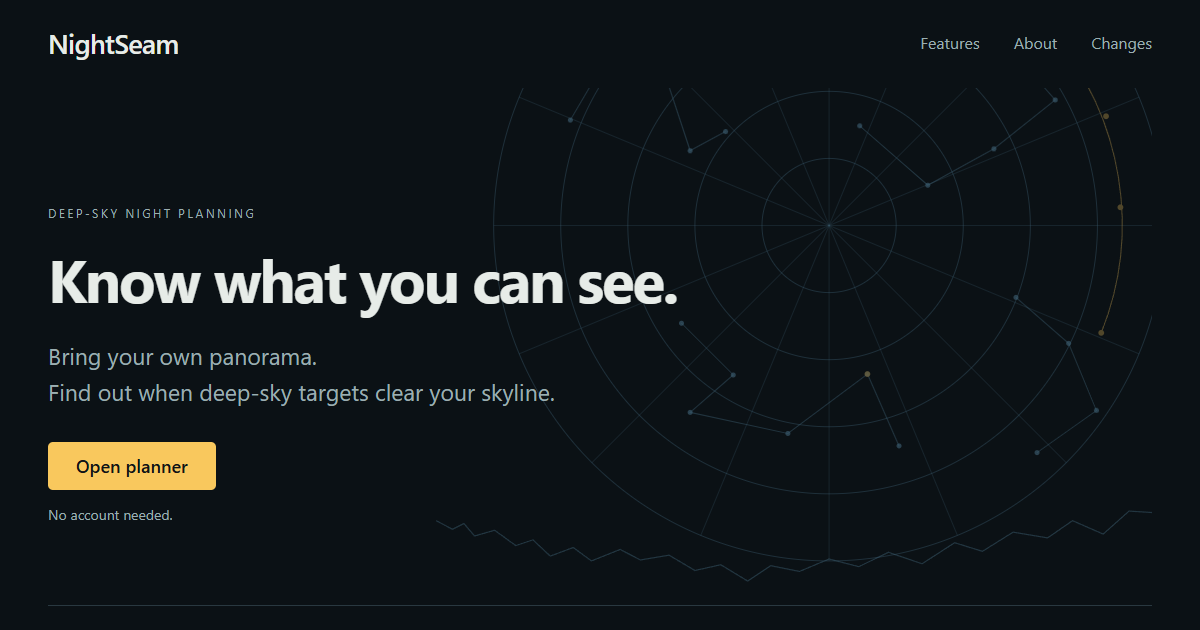
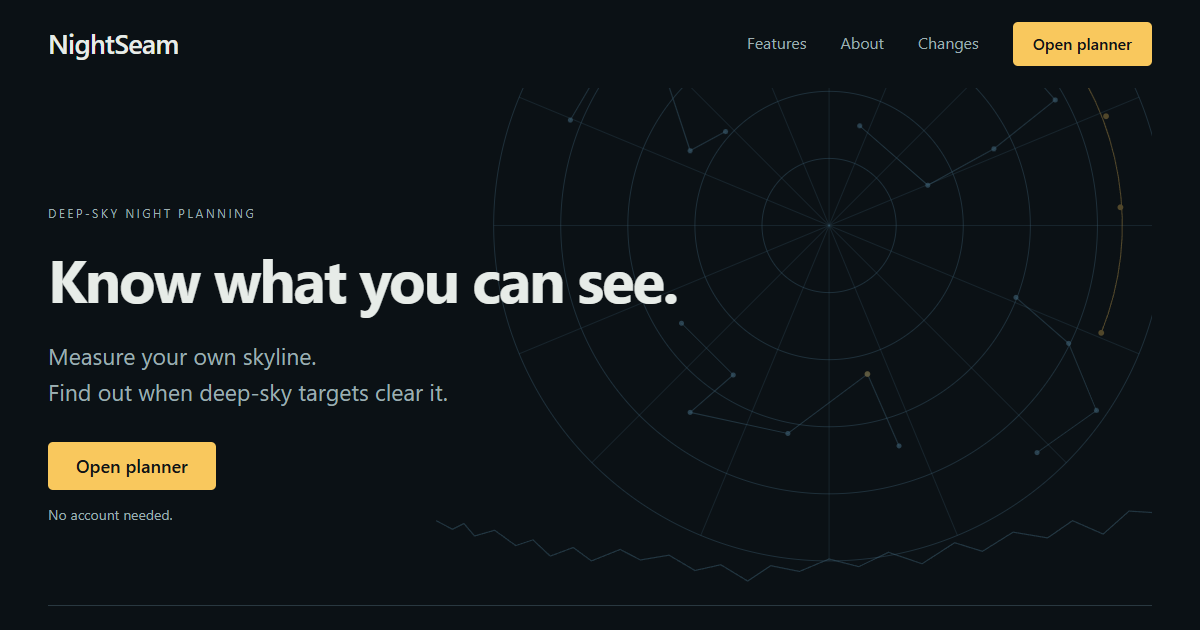
Describe sensor-captured horizons on the landing pages
The landing pages still advertised panoramas and horizon photos, which the
sensor capture (pull request #8) removed. Home, Features, About and Privacy
now describe skylines captured with the phone, drawn by hand or imported.
Privacy gains a disclosure on the camera, motion sensors and share links,
and a note on the capture's site check, each checked against the code.
The share preview is recaptured from the new Home (social-preview.png?v=2).

The drafted 0.7.0 summary describes the capture. North comes from the
compass, the Moon or a landmark: the Sun was removed on October 15, so
BUGS, DEVELOPMENT, the acceptance checklist and the plan no longer offer it.

diff --git a/landing/privacy.html b/landing/privacy.html
@@ -14,8 +14,8 @@
 <meta property="og:title" content="Privacy — NightSeam">
 <meta property="og:description" content="Local saved planning data, online weather and photos, and website hosting explained.">
 <meta property="og:url" content="https://nightseam.de/privacy.html">
-<meta property="og:image" content="https://nightseam.de/social-preview.png?v=1">
-<meta property="og:image:alt" content="NightSeam — know what you can see, with your panorama and calculated target visibility">
+<meta property="og:image" content="https://nightseam.de/social-preview.png?v=2">
+<meta property="og:image:alt" content="NightSeam — know what you can see, with your own skyline and calculated target visibility">
 <meta name="twitter:card" content="summary_large_image">
 <link rel="icon" type="image/png" href="app.png">
 <link rel="stylesheet" href="/astro/themes.css?v=23">
@@ -31,11 +31,11 @@
 <details class="mobile-menu"><summary aria-label="Navigation menu"><svg aria-hidden="true" viewBox="0 0 24 24"><path d="M3 6h18M3 12h18M3 18h18"/></svg></summary><nav aria-label="Mobile navigation"><a href="features.html">Features</a><a href="about.html">About</a><a href="download.html">Changes</a></nav></details>
 </div>
 </div></header>
-<main id="content" tabindex="-1" class="container"><section class="hero"><svg class="sky-map" aria-hidden="true" focusable="false" viewBox="0 0 960 760"><use href="sky-map.svg?v=1#sky-art"></use></svg><div class="hero-copy"><p class="eyebrow">Your data</p><h1>Privacy, explained.</h1><p class="hero-sub">Saved planning data stays in your browser.<br>Some online features contact external services.</p></div></section><section class="two-facts" aria-label="Privacy summary"><div><h2>On your device</h2><p>Sites, rigs and panoramas stay in browser storage; backups stay wherever you save them. Importing a panorama does not upload it to NightSeam.</p></div><div><h2>Online requests</h2><p>Weather sends your active site’s coordinates and timezone to Open-Meteo. New photos use Wikipedia and Wikimedia.</p></div></section><details class="disclosure"><summary>Browser storage and backups</summary><div class="disclosure-body"><p>The browser planner runs astronomy calculations on your device, without an
+<main id="content" tabindex="-1" class="container"><section class="hero"><svg class="sky-map" aria-hidden="true" focusable="false" viewBox="0 0 960 760"><use href="sky-map.svg?v=1#sky-art"></use></svg><div class="hero-copy"><p class="eyebrow">Your data</p><h1>Privacy, explained.</h1><p class="hero-sub">Saved planning data stays in your browser.<br>Some online features contact external services.</p></div></section><section class="two-facts" aria-label="Privacy summary"><div><h2>On your device</h2><p>Sites, rigs and horizons stay in browser storage; backups stay wherever you save them. The camera view for capturing a horizon is never recorded or uploaded.</p></div><div><h2>Online requests</h2><p>Weather sends your active site’s coordinates and timezone to Open-Meteo. New photos use Wikipedia and Wikimedia.</p></div></section><details class="disclosure"><summary>Browser storage and backups</summary><div class="disclosure-body"><p>The browser planner runs astronomy calculations on your device, without an
       account. It uses no analytics, tracking or cookies. Your saved sites, rigs,
-      custom targets, preferences, horizon profiles and panorama images stay in
-      your browser’s IndexedDB and localStorage. Importing a panorama or restoring
-      a backup does not upload that file to NightSeam.</p>
+      custom targets, preferences and horizons stay in your browser’s IndexedDB
+      and localStorage. Importing a horizon file or restoring a backup does not
+      upload that file to NightSeam.</p>
       <p>Local storage is specific to the browser and site address. Clearing it
       removes saved planning data. Export a JSON backup first if you want to keep
       a separate copy; exported files remain wherever you save them.</p></div></details><details class="disclosure"><summary>Weather, photos and location</summary><div class="disclosure-body"><h2>Weather and air quality</h2><p>Loading weather sends your active site’s latitude, longitude and selected
@@ -43,7 +43,7 @@
       <a href="https://open-meteo.com/" target="_blank" rel="noopener">Open-Meteo</a>.
       The requests also specify forecast variables and a four-day forecast period;
       your browser supplies normal connection information. Saved site names,
-      equipment, custom targets and panoramas are not included in these requests.</p>
+      equipment, custom targets and horizons are not included in these requests.</p>
       <p>Weather loads when requested, or on startup if you enable “Always load on
       startup.” After you have loaded weather, changing the active site can fetch
       a new forecast. Disable the startup setting in the weather panel to prevent
@@ -53,13 +53,26 @@
       <a href="https://en.wikipedia.org/" target="_blank" rel="noopener">Wikipedia</a>
       and a thumbnail from Wikimedia’s image service. Those services receive the
       requested article or image path and normal connection information; saved
-      observing coordinates, rigs and panoramas are not sent with photo requests.
+      observing coordinates, rigs and horizons are not sent with photo requests.
       Downloaded thumbnails are cached locally in IndexedDB. Each image retains
       its own license and credit requirements.</p><h2>Using your location</h2><p>The “use my location” button asks your browser for your position only when you
       press it, subject to the browser’s permission controls. The browser’s own
       location service may use network services. The resulting coordinates are
       stored locally as site data and can subsequently be sent to Open-Meteo if
-      you load weather for that site.</p></div></details><details class="disclosure"><summary>Website requests and hosting</summary><div class="disclosure-body"><h2>Website requests</h2><p>Opening the site or planner requests pages, scripts, catalog files and
+      you load weather for that site.</p>
+      <p>When you capture a horizon and your browser already allows location
+      access for this site, the capture compares your position with the observing
+      site to warn when you are far from it. It never asks for your location
+      itself, and that position is neither stored nor sent.</p></div></details><details class="disclosure"><summary>Horizon capture and share links</summary><div class="disclosure-body"><h2>Camera and motion sensors</h2><p>Capturing a horizon on a phone asks your browser for the camera and, where
+      the browser requires it, for the motion sensors. The camera image is shown
+      on screen and, where the browser supports it, measured on your device to keep
+      the overlay in step with your movement; it is never recorded, stored or
+      uploaded. Only the skyline points you trace are saved. Each phone keeps its
+      own overlay timing and scale in localStorage.</p><h2>Share links</h2><p>A share link carries a horizon’s name, skyline points and overhang edges
+      in the part of the address after “#”, which browsers do not send to the
+      website. Anyone you give the link to can read that horizon, and the app you
+      share it through handles it under its own terms. Opening a link asks before
+      the horizon is added.</p></div></details><details class="disclosure"><summary>Website requests and hosting</summary><div class="disclosure-body"><h2>Website requests</h2><p>Opening the site or planner requests pages, scripts, catalog files and
       site graphics from the website’s host. These requests expose technical
       connection information such as your IP address and browser request headers.
       The catalog and Standard selection are prepared in advance and served by

diff --git a/landing/features.html b/landing/features.html
@@ -8,14 +8,14 @@
 <meta http-equiv="Content-Security-Policy" content="default-src 'self'; script-src 'none'; object-src 'none'; base-uri 'none'; form-action 'none'">
 <meta name="referrer" content="strict-origin-when-cross-origin">
 <title>Features — NightSeam</title>
-<meta name="description" content="Plan observing windows around your own panorama, site and skyline.">
+<meta name="description" content="Plan observing windows around your own site and skyline.">
 <link rel="canonical" href="https://nightseam.de/features.html">
 <meta property="og:type" content="website">
 <meta property="og:title" content="Features — NightSeam">
-<meta property="og:description" content="Plan observing windows around your own panorama, site and skyline.">
+<meta property="og:description" content="Plan observing windows around your own site and skyline.">
 <meta property="og:url" content="https://nightseam.de/features.html">
-<meta property="og:image" content="https://nightseam.de/social-preview.png?v=1">
-<meta property="og:image:alt" content="NightSeam — know what you can see, with your panorama and calculated target visibility">
+<meta property="og:image" content="https://nightseam.de/social-preview.png?v=2">
+<meta property="og:image:alt" content="NightSeam — know what you can see, with your own skyline and calculated target visibility">
 <meta name="twitter:card" content="summary_large_image">
 <link rel="icon" type="image/png" href="app.png">
 <link rel="stylesheet" href="/astro/themes.css?v=23">
@@ -31,14 +31,15 @@
 <details class="mobile-menu"><summary aria-label="Navigation menu"><svg aria-hidden="true" viewBox="0 0 24 24"><path d="M3 6h18M3 12h18M3 18h18"/></svg></summary><nav aria-label="Mobile navigation"><a href="features.html" aria-current="page">Features</a><a href="about.html">About</a><a href="download.html">Changes</a></nav></details>
 </div>
 </div></header>
-<main id="content" tabindex="-1" class="container"><section class="hero"><svg class="sky-map" aria-hidden="true" focusable="false" viewBox="0 0 960 760"><use href="sky-map.svg?v=1#sky-art"></use></svg><div class="hero-copy"><p class="eyebrow">Features</p><h1>Plan around your own sky.</h1><p class="hero-sub">Your panorama. Your site. Your observing night.</p><a class="cta" href="/astro/">Open planner</a><p class="hero-note">Weather forecasts and object photos load from online services.</p></div></section><section class="feature-rows" aria-label="Planning features">
-<div class="feature-row"><span class="row-number" aria-hidden="true">01</span><div><h2>Your panorama, your horizon.</h2><p>Trace your skyline from a panorama or phone photo, draw it by hand, or import a horizon file.</p></div></div>
+<main id="content" tabindex="-1" class="container"><section class="hero"><svg class="sky-map" aria-hidden="true" focusable="false" viewBox="0 0 960 760"><use href="sky-map.svg?v=1#sky-art"></use></svg><div class="hero-copy"><p class="eyebrow">Features</p><h1>Plan around your own sky.</h1><p class="hero-sub">Your skyline. Your site. Your observing night.</p><a class="cta" href="/astro/">Open planner</a><p class="hero-note">Weather forecasts and object photos load from online services.</p></div></section><section class="feature-rows" aria-label="Planning features">
+<div class="feature-row"><span class="row-number" aria-hidden="true">01</span><div><h2>Your skyline, your horizon.</h2><p>Capture your skyline with your phone’s camera and motion sensors, draw it by hand, or import a horizon file.</p></div></div>
 <div class="feature-row"><span class="row-number" aria-hidden="true">02</span><div><h2>Visibility, calculated.</h2><p>Find when a target clears your skyline and minimum altitude, for your site and date.</p></div></div>
 <div class="feature-row"><span class="row-number" aria-hidden="true">03</span><div><h2>The right targets for tonight.</h2><p>Compare usable observing windows, inspect targets and account for the Moon.</p></div></div>
 </section><details class="disclosure"><summary>More planning tools</summary><div class="disclosure-body"><h2>Sites, rigs and custom targets</h2><p>Keep observing locations, equipment and custom targets in this browser. Site timezones account for daylight saving time. Add a rig to see how much of the frame each target fills. Explore Tonight, Catalog, Sky View and Horizon using the same selected observing time.</p>
+<h2>Horizons</h2><p>On a phone, aim the camera along treetops and roofs while its motion sensors record the skyline. North comes from the compass, the Moon or a landmark. Mark balconies and roof edges that block the sky above. Horizons can be imported and exported as Stellarium and N.I.N.A. text files, and sent to another device with a share link.</p>
 <h2>Weather and air quality</h2><p>A four-day weather and air-quality forecast from Open-Meteo. Load it when needed, or enable “Always load on startup.” Requests include the active site’s coordinates and timezone. After weather has been loaded, changing the active site can fetch a new forecast.</p>
 <h2>Connection requirements</h2><p>Open the planner online and let its catalog finish loading. Planning can then continue in that open tab without a connection. Reopening or reloading offline is not guaranteed. Weather and uncached external object photos need a connection. See <a href="privacy.html">Privacy</a> for the services used.</p>
-<h2>Your first night</h2><ol><li>Choose an observing site and its timezone.</li><li>Select your night and minimum altitude. Add a rig to see how targets fit your camera’s frame.</li><li>Compare usable windows in Tonight and inspect a target at the selected time.</li><li>Add your skyline in Horizon, from a photo, by hand or from a horizon file, to plan around trees and roofs.</li><li>Export a JSON backup from Setup before clearing browser storage or moving devices.</li></ol></div></details></main>
+<h2>Your first night</h2><ol><li>Choose an observing site and its timezone.</li><li>Select your night and minimum altitude. Add a rig to see how targets fit your camera’s frame.</li><li>Compare usable windows in Tonight and inspect a target at the selected time.</li><li>Add your skyline in Horizon, with your phone, by hand or from a horizon file, to plan around trees and roofs.</li><li>Export a JSON backup from Setup before clearing browser storage or moving devices.</li></ol></div></details></main>
 <footer class="site-footer container"><div class="foot-inner"><span>NightSeam · Browser night planner</span><nav aria-label="Footer navigation"><a href="/astro/">Planner</a><a href="features.html" aria-current="page">Features</a><a href="about.html">About</a><a href="download.html">Changes</a><a href="privacy.html">Privacy</a><a href="impressum.html">Imprint</a></nav></div></footer>
 </body>
 </html>

diff --git a/landing/index.html b/landing/index.html
@@ -8,14 +8,14 @@
 <meta http-equiv="Content-Security-Policy" content="default-src 'self'; script-src 'none'; object-src 'none'; base-uri 'none'; form-action 'none'">
 <meta name="referrer" content="strict-origin-when-cross-origin">
 <title>Know what you can see — NightSeam</title>
-<meta name="description" content="Deep-sky targets and visibility windows, computed entirely in your browser. OpenNGC catalog and a small supplement: 12,176 objects. Use your own panorama to plan around your skyline.">
+<meta name="description" content="Deep-sky targets and visibility windows, computed entirely in your browser. OpenNGC catalog and a small supplement: 12,176 objects. Add your own skyline to plan around trees and roofs.">
 <link rel="canonical" href="https://nightseam.de/">
 <meta property="og:type" content="website">
 <meta property="og:title" content="Know what you can see — NightSeam">
 <meta property="og:description" content="Deep-sky planning, computed entirely in your browser. 12,176 objects, your observing site and your horizon. No account.">
 <meta property="og:url" content="https://nightseam.de/">
-<meta property="og:image" content="https://nightseam.de/social-preview.png?v=1">
-<meta property="og:image:alt" content="NightSeam — know what you can see, with your panorama and calculated target visibility">
+<meta property="og:image" content="https://nightseam.de/social-preview.png?v=2">
+<meta property="og:image:alt" content="NightSeam — know what you can see, with your own skyline and calculated target visibility">
 <meta name="twitter:card" content="summary_large_image">
 <link rel="icon" type="image/png" href="app.png">
 <link rel="stylesheet" href="/astro/themes.css?v=23">
@@ -31,7 +31,7 @@
 <details class="mobile-menu"><summary aria-label="Navigation menu"><svg aria-hidden="true" viewBox="0 0 24 24"><path d="M3 6h18M3 12h18M3 18h18"/></svg></summary><nav aria-label="Mobile navigation"><a href="features.html">Features</a><a href="about.html">About</a><a href="download.html">Changes</a></nav></details>
 </div>
 </div></header>
-<main id="content" tabindex="-1" class="container"><section class="hero hero-home"><svg class="sky-map" aria-hidden="true" focusable="false" viewBox="0 0 960 760"><use href="sky-map.svg?v=1#sky-art"></use></svg><div class="hero-copy"><p class="eyebrow">Deep-sky night planning</p><h1>Know what you can see.</h1><p class="hero-sub">Bring your own panorama.<br>Find out when deep-sky targets clear your skyline.</p><a class="cta" href="/astro/">Open planner</a><p class="hero-note">No account needed.</p></div></section><section class="two-facts" aria-label="What NightSeam does"><div><h2>Your panorama, your horizon.</h2><p>Trace your skyline from a panorama or photo, or draw it by hand.</p></div><div><h2>Visibility, calculated.</h2><p>See when targets rise above your horizon and minimum altitude, for your site and date.</p></div></section></main>
+<main id="content" tabindex="-1" class="container"><section class="hero hero-home"><svg class="sky-map" aria-hidden="true" focusable="false" viewBox="0 0 960 760"><use href="sky-map.svg?v=1#sky-art"></use></svg><div class="hero-copy"><p class="eyebrow">Deep-sky night planning</p><h1>Know what you can see.</h1><p class="hero-sub">Measure your own skyline.<br>Find out when deep-sky targets clear it.</p><a class="cta" href="/astro/">Open planner</a><p class="hero-note">No account needed.</p></div></section><section class="two-facts" aria-label="What NightSeam does"><div><h2>Your skyline, your horizon.</h2><p>Aim your phone along trees and roofs, draw the skyline by hand, or import a horizon file.</p></div><div><h2>Visibility, calculated.</h2><p>See when targets rise above your horizon and minimum altitude, for your site and date.</p></div></section></main>
 <footer class="site-footer container"><div class="foot-inner"><span>NightSeam · Browser night planner</span><nav aria-label="Footer navigation"><a href="/astro/">Planner</a><a href="features.html">Features</a><a href="about.html">About</a><a href="download.html">Changes</a><a href="privacy.html">Privacy</a><a href="impressum.html">Imprint</a></nav></div></footer>
 </body>
 </html>

diff --git a/landing/about.html b/landing/about.html
@@ -14,8 +14,8 @@
 <meta property="og:title" content="About — NightSeam">
 <meta property="og:description" content="How NightSeam plans observing nights in your browser, with sources and credits.">
 <meta property="og:url" content="https://nightseam.de/about.html">
-<meta property="og:image" content="https://nightseam.de/social-preview.png?v=1">
-<meta property="og:image:alt" content="NightSeam — know what you can see, with your panorama and calculated target visibility">
+<meta property="og:image" content="https://nightseam.de/social-preview.png?v=2">
+<meta property="og:image:alt" content="NightSeam — know what you can see, with your own skyline and calculated target visibility">
 <meta name="twitter:card" content="summary_large_image">
 <link rel="icon" type="image/png" href="app.png">
 <link rel="stylesheet" href="/astro/themes.css?v=23">
@@ -31,7 +31,7 @@
 <details class="mobile-menu"><summary aria-label="Navigation menu"><svg aria-hidden="true" viewBox="0 0 24 24"><path d="M3 6h18M3 12h18M3 18h18"/></svg></summary><nav aria-label="Mobile navigation"><a href="features.html">Features</a><a href="about.html" aria-current="page">About</a><a href="download.html">Changes</a></nav></details>
 </div>
 </div></header>
-<main id="content" tabindex="-1" class="container"><section class="hero"><svg class="sky-map" aria-hidden="true" focusable="false" viewBox="0 0 960 760"><use href="sky-map.svg?v=1#sky-art"></use></svg><div class="hero-copy"><p class="eyebrow">About NightSeam</p><h1>Built around your observing site.</h1><p class="hero-sub">A browser planner for finding deep-sky targets that suit your night and skyline.</p></div></section><section class="editorial"><h2>Planning on your device.</h2><p>Astronomy calculations run in your browser. Saved sites, equipment and panoramas stay in browser storage.</p></section>
+<main id="content" tabindex="-1" class="container"><section class="hero"><svg class="sky-map" aria-hidden="true" focusable="false" viewBox="0 0 960 760"><use href="sky-map.svg?v=1#sky-art"></use></svg><div class="hero-copy"><p class="eyebrow">About NightSeam</p><h1>Built around your observing site.</h1><p class="hero-sub">A browser planner for finding deep-sky targets that suit your night and skyline.</p></div></section><section class="editorial"><h2>Planning on your device.</h2><p>Astronomy calculations run in your browser. Saved sites, equipment and horizons stay in browser storage.</p></section>
 <section class="editorial"><h2>A project with a clear focus.</h2><p>NightSeam plans observing nights in your browser. There is nothing to install and no account to create.</p></section><details class="disclosure"><summary>Data sources and credits</summary><div class="disclosure-body"><p>NightSeam ships <b>12,176</b> catalog objects, with a fixed Standard list of 200 well-known targets.</p><ul>
         <li><b>Catalog:</b> <a href="https://github.com/mattiaverga/OpenNGC" target="_blank" rel="noopener">OpenNGC</a> by Mattia Verga
             (CC BY-SA 4.0), plus a small supplement of objects OpenNGC cannot carry.</li>
@@ -43,7 +43,7 @@
             cached in your browser. The software’s MIT license does not cover third-party photos.</li>
         <li><b>Weather:</b> <a href="https://open-meteo.com/" target="_blank" rel="noopener">Open-Meteo</a>,
             forecast and air-quality services, loaded on demand or with the optional automatic-weather setting; weather data &copy; Open-Meteo.com.</li>
-        <li><b>Saved planning data:</b> sites, rigs, custom targets and panoramas stay in browser storage.
+        <li><b>Saved planning data:</b> sites, rigs, custom targets and horizons stay in browser storage.
             Weather requests send your active site’s coordinates and timezone to Open-Meteo. See <a href="privacy.html">Privacy</a>.</li>
         <li><b>License:</b> the planner is free to use and its software is MIT licensed; OpenNGC catalog data is
             CC BY-SA 4.0.</li>

diff --git a/landing/impressum.html b/landing/impressum.html
@@ -14,8 +14,8 @@
 <meta property="og:title" content="Imprint — NightSeam">
 <meta property="og:description" content="NightSeam project contact and provider information.">
 <meta property="og:url" content="https://nightseam.de/impressum.html">
-<meta property="og:image" content="https://nightseam.de/social-preview.png?v=1">
-<meta property="og:image:alt" content="NightSeam — know what you can see, with your panorama and calculated target visibility">
+<meta property="og:image" content="https://nightseam.de/social-preview.png?v=2">
+<meta property="og:image:alt" content="NightSeam — know what you can see, with your own skyline and calculated target visibility">
 <meta name="twitter:card" content="summary_large_image">
 <link rel="icon" type="image/png" href="app.png">
 <link rel="stylesheet" href="/astro/themes.css?v=23">

diff --git a/landing/download.html b/landing/download.html
@@ -14,8 +14,8 @@
 <meta property="og:title" content="Changes — NightSeam">
 <meta property="og:description" content="Release notes for the NightSeam browser planner.">
 <meta property="og:url" content="https://nightseam.de/download.html">
-<meta property="og:image" content="https://nightseam.de/social-preview.png?v=1">
-<meta property="og:image:alt" content="NightSeam — know what you can see, with your panorama and calculated target visibility">
+<meta property="og:image" content="https://nightseam.de/social-preview.png?v=2">
+<meta property="og:image:alt" content="NightSeam — know what you can see, with your own skyline and calculated target visibility">
 <meta name="twitter:card" content="summary_large_image">
 <link rel="icon" type="image/png" href="app.png">
 <link rel="stylesheet" href="/astro/themes.css?v=23">

diff --git a/scripts/build_changelog.py b/scripts/build_changelog.py
@@ -27,9 +27,10 @@ PUBLIC_RELEASES = [{"version": "0.1.1", "date": "2026-10-08"},
                    {"version": "0.1.0", "date": "2026-10-07"}]
 
 CURATED = {
-    # Draft for the next release (2026-10-13). Not public until a dated
+    # Draft for the next release (2026-10-13; horizon part revised 2026-10-18
+    # for the sensor capture). Not public until a dated
     # PUBLIC_RELEASES record is added at release time; revise it then.
-    "0.7.0": "A new horizon editor. Draw your skyline on a compass grid, or trace it over a 360° panorama or an ordinary phone photo, and let NightSeam detect the skyline in a daylight photo. Mark balconies and roof edges that block the sky above, point your phone along the skyline to add points, and set north from a landmark or from the Sun in the photo. Horizons can be imported and exported as text files from Stellarium and N.I.N.A. Horizons saved by 0.1.x are not carried over, so redraw yours once; backups still restore sites, rigs, targets and settings. Sunset and sunrise now match the times weather apps show, and twilight is checked against published U.S. Naval Observatory tables, including the very short nights of high-latitude summers. An object's details describe the coming night. Unknown time zones are refused when you enter them, keyboard focus stays on the target you were reading when Tonight refreshes, and cached object photos stay under 25 MB.",
+    "0.7.0": "A new horizon editor. Draw your skyline on a compass grid, or capture it with your phone: aim the camera along treetops and roofs while the phone's motion sensors record the line, with north from the compass, the Moon or a landmark. Mark balconies and roof edges that block the sky above, and send a horizon to another device with a share link. Horizons can be imported and exported as text files from Stellarium and N.I.N.A. Horizons saved by 0.1.x are not carried over, so redraw yours once; backups still restore sites, rigs, targets and settings. Sunset and sunrise now match the times weather apps show, and twilight is checked against published U.S. Naval Observatory tables, including the very short nights of high-latitude summers. An object's details describe the coming night. Unknown time zones are refused when you enter them, keyboard focus stays on the target you were reading when Tonight refreshes, and cached object photos stay under 25 MB.",
     "0.1.1": "A clearer planning workspace: open the planner from any public page, edit Site and Rig directly from the top bar, and filter object types with simple checkboxes. The Catalog tab shows 50 objects per page with clearer visibility conditions. Sky View has a wider time slider, twilight colors and smoother one-minute scrubbing. Tonight is simpler, and Horizon tools stay readable while you scroll. Filter advice and precise horizon editing explain what each setting does.",
     "0.1.0": "NightSeam starts anew as an independent browser planner. Bring your own panorama and calculate when deep-sky targets clear your skyline, with planning data saved in your browser. NightSeam is now a browser-only planner with its own version history.",
     # Curate before tagging; a tag does not establish public deployment.

diff --git a/tests/browser/landing_checks.py b/tests/browser/landing_checks.py
@@ -169,7 +169,7 @@ def public_design(c):
                         'https://nightseam.de/' + path.lstrip('/'))
             c.expect_eq(c.page.request.get(c.url('/sky-map.svg?v=1')).status, 200)
             c.expect_eq(c.page.request.get(c.url('/astro/themes.css?v=16')).status, 200)
-            c.expect_eq(c.page.request.get(c.url('/social-preview.png?v=1')).status, 200)
+            c.expect_eq(c.page.request.get(c.url('/social-preview.png?v=2')).status, 200)
             ratios = c.page.evaluate("""() => {
               const channels = s => s.match(/[\\d.]+/g).slice(0,3).map(Number);
               const luminance = a => a.map(v => v/255).map(v => v <= .04045 ? v/12.92 : ((v+.055)/1.055)**2.4)

diff --git a/RELEASES.md b/RELEASES.md
@@ -5,6 +5,32 @@ Actual validation outcomes, newest first. Published releases: v0.1.1 (October 8,
 development awaiting the next release, 0.7.0. Upload success alone is never
 recorded as acceptance.
 
+## Landing copy for sensor-captured horizons — October 18, 2026 (branch landing-sensor-copy)
+
+The landing pages still described panoramas and horizon photos, which the
+sensor capture (pull request #8) removed. Home, Features, About and Privacy
+now describe skylines captured with the phone, drawn by hand or imported;
+Features gains a *Horizons* section, and Privacy a *Horizon capture and
+share links* disclosure plus a note on the capture's site check. Each privacy
+claim was checked against web/capture.js, web/capturemotion.js and
+web/horizon.js: the camera image is only shown and measured in a worker,
+never stored or sent; the per-phone overlay calibration is in localStorage;
+location is read only where already granted and only compared with the
+site; a share link carries name, points and overhangs in the fragment and
+asks before adding. Object-photo text is unchanged, and the published 0.1.0
+summary keeps its wording. `og:image:alt` reads "your own skyline" on all six
+pages. The share preview was recaptured from the new Home at 1200x630 in
+system Chrome (dark), now `social-preview.png?v=2`. The drafted 0.7.0
+summary now describes the capture; north is the compass, the Moon or a
+landmark (the Sun was removed on October 15), which BUGS, DEVELOPMENT, the
+acceptance checklist and the plan also now say.
+
+Checks: pytest 358 passed, 1 skipped; check_js, check_js_tokens, check_encoding,
+build_changelog --check and check_release (no errors; the usual dirty and
+version.json warnings) pass; browser web-landing-pages,
+web-landing-history-no-js, web-public-design-responsive and
+web-immutable-publication pass.
+
 ## Sun removed, calmer readout, points in the AR view — October 15, 2026 (branch horizon-sensor-plan)
 
 Owner: remove the Sun reference; the readout flashed and jumped between one

diff --git a/ROADMAP.md b/ROADMAP.md
@@ -11,7 +11,7 @@ Where NightSeam Web stands and what comes next. Open defects are in
 - **On master, unreleased:** the rebuilt horizon editor (skyline on a compass
   grid, overhangs, file import/export) with phone sensor capture instead of
   photos (pull request #8, merged October 16: camera view with an AR overlay,
-  north from the compass, Moon, Sun or a landmark, loop closure, share links),
+  north from the compass, the Moon or a landmark, loop closure, share links),
   the coming-night detail card, USNO-anchored twilight checks, timezone
   validation, the October review fixes and a CI workflow.
 
@@ -21,10 +21,7 @@ Where NightSeam Web stands and what comes next. Open defects are in
    [HORIZON_ACCEPTANCE.md](docs/acceptance/HORIZON_ACCEPTANCE.md), including
    the overlay-lag fix (BUGS.md). The sensor capture was merged before this
    acceptance, so master no longer has the photo editor.
-2. New landing copy: the landing pages still describe panoramas and photos
-   (features, privacy and about pages, `og:image:alt`), which master no
-   longer has.
-3. Revise the drafted 0.7.0 summary (`CURATED` in scripts/build_changelog.py)
+2. Revise the drafted 0.7.0 summary (`CURATED` in scripts/build_changelog.py)
    and add its dated `PUBLIC_RELEASES` record, then follow
    [RELEASE_WORKFLOW.md](RELEASE_WORKFLOW.md): pre-tag check, tag, clean stage,
    publication candidate and separately authorized deployment.

diff --git a/DEVELOPMENT.md b/DEVELOPMENT.md
@@ -115,13 +115,13 @@ editor", "Capture horizons with the phone's sensors"); plans:
   (`compassDiag`) says how many compass readings arrive, whether it is
   settling and by how much, and how often it was restarted.
 - **North references.** *North…* opens a panel: put the crosshair on the
-  Moon or the Sun (topocentric apparent position for the observing site and
-  the current time, `moonDirection` / `sunDirection`; usable from 2 to 60 deg
+  Moon (topocentric apparent position for the observing site and the current
+  time, `moonDirection`; usable from 2 to 60 deg
   altitude, `referenceUsable`) or on a landmark with a typed true bearing,
   and tap it. `referenceOffset` turns the relative azimuth into the true one;
   a reference replaces the compass for the rest of the capture and works
   without any compass. The view says which reference set north and when, how
-  far the compass was off, and (Moon/Sun) whether the aim read high or low.
+  far the compass was off, and (Moon) whether the aim read high or low.
   *Read the compass again* returns to the compass.
 - **Loop closure.** A skyline trace with at least 300 deg of net turn asks
   whether the crosshair is back where it started. Yes: `closeLoop` removes

diff --git a/BUGS.md b/BUGS.md
@@ -40,8 +40,8 @@ entry here when it is fixed and record the fix in RELEASES.md.
 - **North in the phone capture.** Without a reference, north comes from
   the phone's compass, averaged once it settles: only as good as that compass
   (5-10 deg off near metal or buildings, measured on a Pixel 7a). *North…*
-  sets it from the Moon, the Sun or a landmark instead. The Moon and Sun need
-  the observing site to be where the phone is.
+  sets it from the Moon or a landmark instead. The Moon needs the observing
+  site to be where the phone is.
 - **AR overlay lag (owner, Pixel 7a, 2026-10-15): fix awaiting the owner's
   check.** Measured: the camera image trails the gyroscope by about 210 ms and
   is scaled differently per axis. The capture now aims with the orientation
